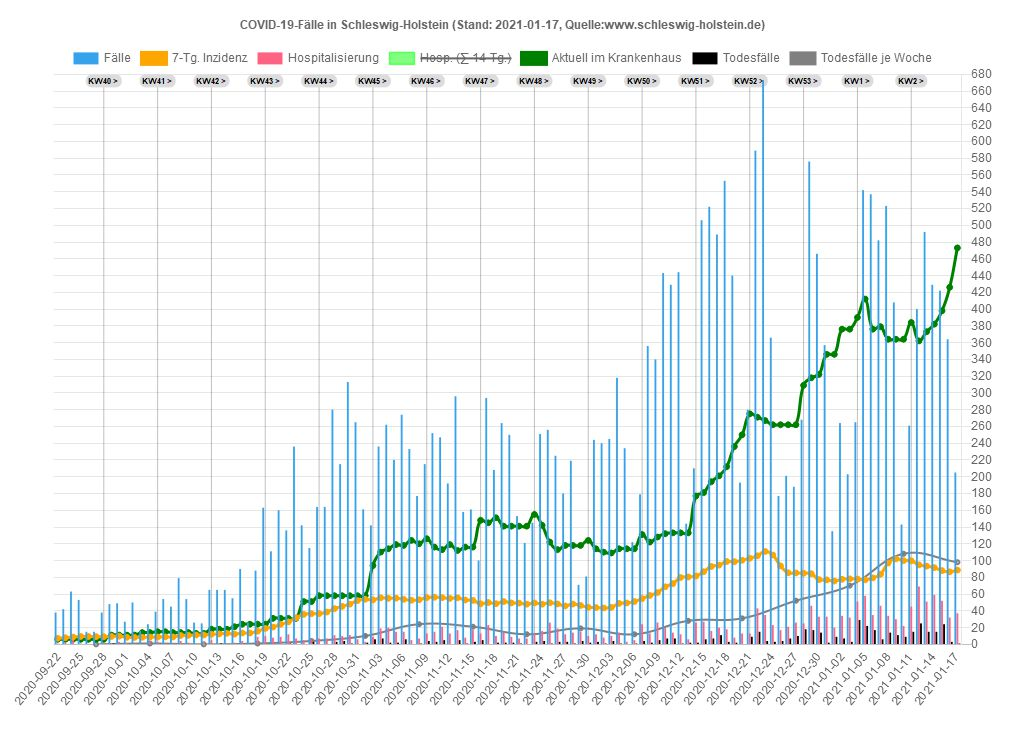
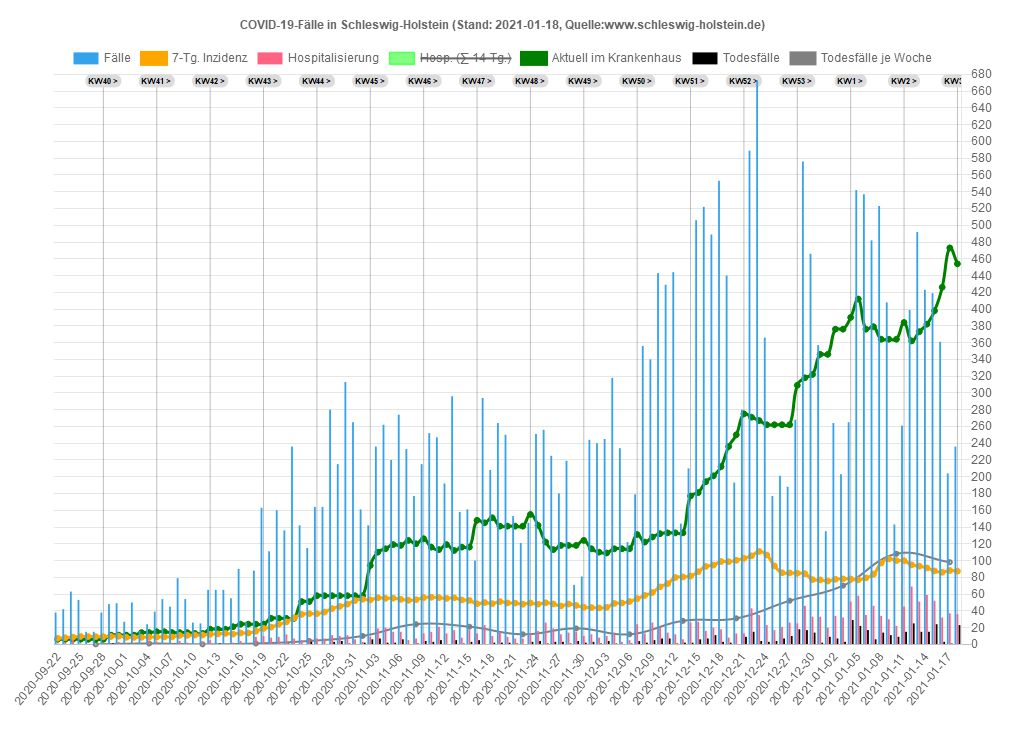
18.01.2021 20:35:10,86

Changed region(s): [[0.0625, 0.0931, 0.9375, 0.9622], [0.1875, 0.0931, 0.2188, 0.1242], [0.125, 0.0931, 0.1562, 0.1242]]

diff --git a/sh/Data_SH.js b/sh/Data_SH.js
@@ -1,20 +1,20 @@
 var chdata={
-labels: ["2020-09-22","2020-09-23","2020-09-24","2020-09-25","2020-09-26","2020-09-27","2020-09-28","2020-09-29","2020-09-30","2020-10-01","2020-10-02","2020-10-03","2020-10-04","2020-10-05","2020-10-06","2020-10-07","2020-10-08","2020-10-09","2020-10-10","2020-10-11","2020-10-12","2020-10-13","2020-10-14","2020-10-15","2020-10-16","2020-10-17","2020-10-18","2020-10-19","2020-10-20","2020-10-21","2020-10-22","2020-10-23","2020-10-24","2020-10-25","2020-10-26","2020-10-27","2020-10-28","2020-10-29","2020-10-30","2020-10-31","2020-11-01","2020-11-02","2020-11-03","2020-11-04","2020-11-05","2020-11-06","2020-11-07","2020-11-08","2020-11-09","2020-11-10","2020-11-11","2020-11-12","2020-11-13","2020-11-14","2020-11-15","2020-11-16","2020-11-17","2020-11-18","2020-11-19","2020-11-20","2020-11-21","2020-11-22","2020-11-23","2020-11-24","2020-11-25","2020-11-26","2020-11-27","2020-11-28","2020-11-29","2020-11-30","2020-12-01","2020-12-02","2020-12-03","2020-12-04","2020-12-05","2020-12-06","2020-12-07","2020-12-08","2020-12-09","2020-12-10","2020-12-11","2020-12-12","2020-12-13","2020-12-14","2020-12-15","2020-12-16","2020-12-17","2020-12-18","2020-12-19","2020-12-20","2020-12-21","2020-12-22","2020-12-23","2020-12-24","2020-12-25","2020-12-26","2020-12-27","2020-12-28","2020-12-29","2020-12-30","2020-12-31","2021-01-01","2021-01-02","2021-01-03","2021-01-04","2021-01-05","2021-01-06","2021-01-07","2021-01-08","2021-01-09","2021-01-10","2021-01-11","2021-01-12","2021-01-13","2021-01-14","2021-01-15","2021-01-16","2021-01-17"],
+labels: ["2020-09-22","2020-09-23","2020-09-24","2020-09-25","2020-09-26","2020-09-27","2020-09-28","2020-09-29","2020-09-30","2020-10-01","2020-10-02","2020-10-03","2020-10-04","2020-10-05","2020-10-06","2020-10-07","2020-10-08","2020-10-09","2020-10-10","2020-10-11","2020-10-12","2020-10-13","2020-10-14","2020-10-15","2020-10-16","2020-10-17","2020-10-18","2020-10-19","2020-10-20","2020-10-21","2020-10-22","2020-10-23","2020-10-24","2020-10-25","2020-10-26","2020-10-27","2020-10-28","2020-10-29","2020-10-30","2020-10-31","2020-11-01","2020-11-02","2020-11-03","2020-11-04","2020-11-05","2020-11-06","2020-11-07","2020-11-08","2020-11-09","2020-11-10","2020-11-11","2020-11-12","2020-11-13","2020-11-14","2020-11-15","2020-11-16","2020-11-17","2020-11-18","2020-11-19","2020-11-20","2020-11-21","2020-11-22","2020-11-23","2020-11-24","2020-11-25","2020-11-26","2020-11-27","2020-11-28","2020-11-29","2020-11-30","2020-12-01","2020-12-02","2020-12-03","2020-12-04","2020-12-05","2020-12-06","2020-12-07","2020-12-08","2020-12-09","2020-12-10","2020-12-11","2020-12-12","2020-12-13","2020-12-14","2020-12-15","2020-12-16","2020-12-17","2020-12-18","2020-12-19","2020-12-20","2020-12-21","2020-12-22","2020-12-23","2020-12-24","2020-12-25","2020-12-26","2020-12-27","2020-12-28","2020-12-29","2020-12-30","2020-12-31","2021-01-01","2021-01-02","2021-01-03","2021-01-04","2021-01-05","2021-01-06","2021-01-07","2021-01-08","2021-01-09","2021-01-10","2021-01-11","2021-01-12","2021-01-13","2021-01-14","2021-01-15","2021-01-16","2021-01-17","2021-01-18"],
 datasets: [
 {label: 'Fälle',
 type: 'bar',
 backgroundColor: window.chartColors.blue,
-data: [38,42,63,53,15,15,38,48,49,27,50,16,24,39,54,45,79,54,26,25,65,65,65,55,90,26,88,163,111,160,136,236,142,115,164,164,280,215,313,265,161,142,236,262,220,274,233,177,215,252,247,192,296,158,161,100,294,208,264,250,153,121,145,251,256,225,180,219,71,81,244,240,245,318,234,122,179,356,340,443,429,444,144,210,506,522,489,553,440,193,280,589,673,366,177,201,188,268,576,466,357,135,264,203,265,542,537,482,523,408,143,261,400,492,429,422,364,205]},
+data: [38,42,63,53,15,15,38,48,49,27,50,16,24,39,54,45,79,54,26,25,65,65,65,55,90,26,88,163,111,160,136,236,142,115,164,164,280,215,313,265,161,142,236,262,220,274,233,177,215,252,247,192,296,158,161,100,294,208,264,250,153,121,145,251,256,225,180,219,71,81,244,240,245,318,234,122,179,356,340,443,429,444,144,210,506,522,489,553,440,193,280,589,673,366,177,201,188,268,576,466,357,135,264,203,265,542,537,482,523,408,143,261,399,492,423,419,361,204,236]},
 {label: '7-Tg. Inzidenz',
 type: 'line',
 fill: false,
 pointBackgroundColor: 'orange',
 borderColor: 'orange',
-data: [7.2,7.9,8.7,9.4,9.3,9.2,9.1,9.4,9.7,8.4,8.3,8.4,8.7,8.7,8.9,8.8,10.6,10.7,11.1,11.1,12.0,12.4,13.1,12.2,13.5,13.5,15.6,19.0,20.6,23.9,26.7,31.7,35.7,36.6,36.6,38.5,42.6,45.3,48.0,52.2,53.8,53.0,55.5,54.9,55.1,53.7,52.6,53.2,55.7,56.2,55.7,54.8,55.5,52.9,52.4,48.4,49.9,48.5,51.0,49.4,49.2,47.9,49.4,47.9,49.6,48.2,45.8,48.1,46.4,44.2,43.9,43.4,44.1,48.8,49.3,51.1,54.5,58.3,61.8,68.6,72.4,79.7,80.4,81.5,86.6,92.9,94.5,98.8,98.6,100.3,102.7,105.6,110.8,106.6,93.6,85.4,85.2,84.8,84.3,77.2,76.9,75.5,77.6,78.1,78.0,76.9,79.3,83.6,97.0,101.9,99.9,99.7,94.8,93.3,91.5,88.0,86.5,88.6]},
+data: [7.2,7.9,8.7,9.4,9.3,9.2,9.1,9.4,9.7,8.4,8.3,8.4,8.7,8.7,8.9,8.8,10.6,10.7,11.1,11.1,12.0,12.4,13.1,12.2,13.5,13.5,15.6,19.0,20.6,23.9,26.7,31.7,35.7,36.6,36.6,38.5,42.6,45.3,48.0,52.2,53.8,53.0,55.5,54.9,55.1,53.7,52.6,53.2,55.7,56.2,55.7,54.8,55.5,52.9,52.4,48.4,49.9,48.5,51.0,49.4,49.2,47.9,49.4,47.9,49.6,48.2,45.8,48.1,46.4,44.2,43.9,43.4,44.1,48.8,49.3,51.1,54.5,58.3,61.8,68.6,72.4,79.7,80.4,81.5,86.6,92.9,94.5,98.8,98.6,100.3,102.7,105.6,110.8,106.6,93.6,85.4,85.2,84.8,84.3,77.2,76.9,75.5,77.6,78.1,78.0,76.9,79.3,83.6,97.0,101.9,99.9,99.7,94.8,93.3,91.2,87.6,86.0,88.1,87.3]},
 {label: 'Hospitalisierung',
 type: 'bar',
 backgroundColor: window.chartColors.red,
-data: [1,2,7,1,0,0,2,1,3,1,1,0,4,3,1,1,4,2,0,3,5,1,1,2,4,0,9,10,8,9,12,7,5,6,7,7,11,10,11,6,3,9,19,20,15,15,5,7,13,15,21,13,17,8,17,13,23,10,15,9,7,7,13,16,26,19,12,14,15,10,12,8,10,14,3,5,24,13,26,20,14,12,6,26,27,16,20,18,8,13,13,43,35,23,17,21,26,25,46,33,33,20,34,32,51,58,35,46,34,30,22,45,69,51,59,52,32,37]},
+data: [1,2,7,1,0,0,2,1,3,1,1,0,4,3,1,1,4,2,0,3,5,1,1,2,4,0,9,10,8,9,12,7,5,6,7,7,11,10,11,6,3,9,19,20,15,15,5,7,13,15,21,13,17,8,17,13,23,10,15,9,7,7,13,16,26,19,12,14,15,10,12,8,10,14,3,5,24,13,26,20,14,12,6,26,27,16,20,18,8,13,13,43,35,23,17,21,26,25,46,33,33,20,34,32,51,58,35,46,34,30,22,45,69,51,59,52,32,37,36]},
 {label: 'Hosp. (∑ 14-Tg.)',
 type: 'line',
 fill: false,
@@ -22,17 +22,17 @@ hidden: true,
 borderColor: 'rgba(0,255,0,0.5)',
 borderWidth: 1.5,
 pointRadius: 0,
-data: [12,12,20,22,22,22,22,23,23,21,22,21,24,26,26,25,22,23,23,26,29,29,27,28,31,31,36,43,50,58,66,71,76,79,81,87,97,105,112,118,112,111,122,133,136,144,144,145,151,159,169,172,178,180,194,198,202,192,192,186,188,188,188,189,194,200,195,201,199,196,185,183,178,183,179,177,188,185,185,186,188,186,177,193,208,216,226,230,235,243,232,262,271,274,277,286,306,305,324,341,354,356,382,401,439,454,454,477,494,503,499,519,542,560,586,618,616,621]},
+data: [12,12,20,22,22,22,22,23,23,21,22,21,24,26,26,25,22,23,23,26,29,29,27,28,31,31,36,43,50,58,66,71,76,79,81,87,97,105,112,118,112,111,122,133,136,144,144,145,151,159,169,172,178,180,194,198,202,192,192,186,188,188,188,189,194,200,195,201,199,196,185,183,178,183,179,177,188,185,185,186,188,186,177,193,208,216,226,230,235,243,232,262,271,274,277,286,306,305,324,341,354,356,382,401,439,454,454,477,494,503,499,519,542,560,586,618,616,621,606]},
 {label: 'Aktuell im Krankenhaus',
 type: 'line',
 fill: false,
 pointBackgroundColor: 'green',
 borderColor: 'green',
-data: [6,6,6,6,6,6,6,11,11,11,11,14,14,15,15,14,14,14,13,13,18,18,18,21,24,24,24,24,31,31,31,31,51,51,58,58,58,58,58,58,58,94,110,114,119,118,124,120,126,116,113,119,112,116,116,148,145,151,141,141,141,141,155,142,122,113,118,118,118,124,114,110,109,114,114,114,131,122,128,132,133,133,133,177,181,194,201,212,236,250,275,271,267,262,262,262,262,309,318,322,346,346,376,376,390,412,376,379,364,364,364,384,362,373,382,398,426,473]},
+data: [6,6,6,6,6,6,6,11,11,11,11,14,14,15,15,14,14,14,13,13,18,18,18,21,24,24,24,24,31,31,31,31,51,51,58,58,58,58,58,58,58,94,110,114,119,118,124,120,126,116,113,119,112,116,116,148,145,151,141,141,141,141,155,142,122,113,118,118,118,124,114,110,109,114,114,114,131,122,128,132,133,133,133,177,181,194,201,212,236,250,275,271,267,262,262,262,262,309,318,322,346,346,376,376,390,412,376,379,364,364,364,384,362,373,382,398,426,473,454]},
 {label: 'Todesfälle',
 type: 'bar',
 backgroundColor: 'black',
-data: [0,0,0,0,0,0,0,1,0,0,0,0,0,0,0,0,0,0,0,0,0,1,0,0,0,0,0,0,0,0,1,0,0,3,0,0,3,4,1,0,2,6,7,2,2,6,0,1,4,3,5,0,5,1,3,5,0,2,2,2,1,0,3,4,1,3,3,1,4,2,3,1,4,1,0,1,4,2,5,7,7,1,2,2,6,7,11,3,2,0,9,15,4,3,4,7,10,18,17,14,2,9,7,3,29,22,17,6,14,11,9,15,25,15,15,24,3,1]},
+data: [0,0,0,0,0,0,0,1,0,0,0,0,0,0,0,0,0,0,0,0,0,1,0,0,0,0,0,0,0,0,1,0,0,3,0,0,3,4,1,0,2,6,7,2,2,6,0,1,4,3,5,0,5,1,3,5,0,2,2,2,1,0,3,4,1,3,3,1,4,2,3,1,4,1,0,1,4,2,5,7,7,1,2,2,6,7,11,3,2,0,9,15,4,3,4,7,10,18,17,14,2,9,7,3,29,22,17,6,14,11,9,15,25,15,15,24,3,1,23]},
 {label: 'Todesfälle je Woche',
 type: 'line',
 fill: false,
@@ -41,6 +41,6 @@ borderColor: 'rgba(128,128,128,1)',
 borderWidth: 2,
 pointRadius: 2,
 yAxisID: 'first-y-axis',
-data: [,,,,,0,,,,,,,1,,,,,,,0,,,,,,,1,,,,,,,4,,,,,,,10,,,,,,,24,,,,,,,21,,,,,,,12,,,,,,,19,,,,,,,12,,,,,,,28,,,,,,,31,,,,,,,52,,,,,,,70,,,,,,,108,,,,,,,98]},
+data: [,,,,,0,,,,,,,1,,,,,,,0,,,,,,,1,,,,,,,4,,,,,,,10,,,,,,,24,,,,,,,21,,,,,,,12,,,,,,,19,,,,,,,12,,,,,,,28,,,,,,,31,,,,,,,52,,,,,,,70,,,,,,,108,,,,,,,98,]},
 ]};
 

diff --git a/sh/Data_SH_Alter.js b/sh/Data_SH_Alter.js
@@ -128,7 +128,8 @@ var chdata={
 				{x: '2021-01-14', y: 'Alle', v: 88.5744168, casesum: 2572},{x: '2021-01-14', y: '00-09', v: 32.3306923, casesum: 83},{x: '2021-01-14', y: '10-19', v: 74.9980979, casesum: 207},{x: '2021-01-14', y: '20-29', v: 131.265588, casesum: 420},{x: '2021-01-14', y: '30-39', v: 115.743151, casesum: 389},{x: '2021-01-14', y: '40-49', v: 78.8712894, casesum: 278},{x: '2021-01-14', y: '50-59', v: 74.8888274, casesum: 371},{x: '2021-01-14', y: '60-69', v: 58.5921382, casesum: 213},{x: '2021-01-14', y: '70-79', v: 66.569572, casesum: 197},{x: '2021-01-14', y: '80-89', v: 164.950068, casesum: 295},{x: '2021-01-14', y: '90+', v: 412.965019, casesum: 119},
 				{x: '2021-01-15', y: 'Alle', v: 85.9915703, casesum: 2497},{x: '2021-01-15', y: '00-09', v: 33.888798, casesum: 87},{x: '2021-01-15', y: '10-19', v: 71.737311, casesum: 198},{x: '2021-01-15', y: '20-29', v: 128.140217, casesum: 410},{x: '2021-01-15', y: '30-39', v: 109.494806, casesum: 368},{x: '2021-01-15', y: '40-49', v: 78.3038701, casesum: 276},{x: '2021-01-15', y: '50-59', v: 74.6869708, casesum: 370},{x: '2021-01-15', y: '60-69', v: 58.0419773, casesum: 211},{x: '2021-01-15', y: '70-79', v: 65.5558221, casesum: 194},{x: '2021-01-15', y: '80-89', v: 157.121929, casesum: 281},{x: '2021-01-15', y: '90+', v: 353.970017, casesum: 102},
 				{x: '2021-01-16', y: 'Alle', v: 84.2696726, casesum: 2447},{x: '2021-01-16', y: '00-09', v: 35.4469037, casesum: 91},{x: '2021-01-16', y: '10-19', v: 70.2880724, casesum: 194},{x: '2021-01-16', y: '20-29', v: 125.63992, casesum: 402},{x: '2021-01-16', y: '30-39', v: 103.246462, casesum: 347},{x: '2021-01-16', y: '40-49', v: 79.7224185, casesum: 281},{x: '2021-01-16', y: '50-59', v: 73.4758307, casesum: 364},{x: '2021-01-16', y: '60-69', v: 57.7668968, casesum: 210},{x: '2021-01-16', y: '70-79', v: 65.5558221, casesum: 194},{x: '2021-01-16', y: '80-89', v: 147.616332, casesum: 264},{x: '2021-01-16', y: '90+', v: 347.029428, casesum: 100},
-				{x: '2021-01-17', y: 'Alle', v: 87.0591468, casesum: 2528},{x: '2021-01-17', y: '00-09', v: 36.2259565, casesum: 93},{x: '2021-01-17', y: '10-19', v: 74.6357882, casesum: 206},{x: '2021-01-17', y: '20-29', v: 124.389771, casesum: 398},{x: '2021-01-17', y: '30-39', v: 104.734163, casesum: 352},{x: '2021-01-17', y: '40-49', v: 83.1269345, casesum: 293},{x: '2021-01-17', y: '50-59', v: 73.879544, casesum: 366},{x: '2021-01-17', y: '60-69', v: 58.5921382, casesum: 213},{x: '2021-01-17', y: '70-79', v: 70.2866547, casesum: 208},{x: '2021-01-17', y: '80-89', v: 161.035998, casesum: 288},{x: '2021-01-17', y: '90+', v: 385.202665, casesum: 111}
+				{x: '2021-01-17', y: 'Alle', v: 87.0591468, casesum: 2528},{x: '2021-01-17', y: '00-09', v: 36.2259565, casesum: 93},{x: '2021-01-17', y: '10-19', v: 74.6357882, casesum: 206},{x: '2021-01-17', y: '20-29', v: 124.389771, casesum: 398},{x: '2021-01-17', y: '30-39', v: 104.734163, casesum: 352},{x: '2021-01-17', y: '40-49', v: 83.1269345, casesum: 293},{x: '2021-01-17', y: '50-59', v: 73.879544, casesum: 366},{x: '2021-01-17', y: '60-69', v: 58.5921382, casesum: 213},{x: '2021-01-17', y: '70-79', v: 70.2866547, casesum: 208},{x: '2021-01-17', y: '80-89', v: 161.035998, casesum: 288},{x: '2021-01-17', y: '90+', v: 385.202665, casesum: 111},
+				{x: '2021-01-18', y: 'Alle', v: 87.1624607, casesum: 2531},{x: '2021-01-18', y: '00-09', v: 37.3945357, casesum: 96},{x: '2021-01-18', y: '10-19', v: 76.8096461, casesum: 212},{x: '2021-01-18', y: '20-29', v: 127.515142, casesum: 408},{x: '2021-01-18', y: '30-39', v: 108.602186, casesum: 365},{x: '2021-01-18', y: '40-49', v: 87.6662893, casesum: 309},{x: '2021-01-18', y: '50-59', v: 74.0814007, casesum: 367},{x: '2021-01-18', y: '60-69', v: 56.9416554, casesum: 207},{x: '2021-01-18', y: '70-79', v: 65.2179055, casesum: 193},{x: '2021-01-18', y: '80-89', v: 151.530401, casesum: 271},{x: '2021-01-18', y: '90+', v: 357.440311, casesum: 103}
 			],
 			backgroundColor: function(context) {
 				return inzColor(context.dataset.data[context.dataIndex].v)
@@ -136,7 +137,7 @@ var chdata={
 			width: function(context) {
 				const a = context.chart.chartArea
 				if (!a) return 0
-				return (a.right - a.left) / 125.5
+				return (a.right - a.left) / 126.5
 			},
 			height: function(context) {
 				const a = context.chart.chartArea
@@ -148,7 +149,7 @@ var chdata={
 	options: {
 		legend: { display: false },
 		scales: {
-			xAxes: [{type: 'category', labels: ["2020-09-15","2020-09-16","2020-09-17","2020-09-18","2020-09-19","2020-09-20","2020-09-21","2020-09-22","2020-09-23","2020-09-24","2020-09-25","2020-09-26","2020-09-27","2020-09-28","2020-09-29","2020-09-30","2020-10-01","2020-10-02","2020-10-03","2020-10-04","2020-10-05","2020-10-06","2020-10-07","2020-10-08","2020-10-09","2020-10-10","2020-10-11","2020-10-12","2020-10-13","2020-10-14","2020-10-15","2020-10-16","2020-10-17","2020-10-18","2020-10-19","2020-10-20","2020-10-21","2020-10-22","2020-10-23","2020-10-24","2020-10-25","2020-10-26","2020-10-27","2020-10-28","2020-10-29","2020-10-30","2020-10-31","2020-11-01","2020-11-02","2020-11-03","2020-11-04","2020-11-05","2020-11-06","2020-11-07","2020-11-08","2020-11-09","2020-11-10","2020-11-11","2020-11-12","2020-11-13","2020-11-14","2020-11-15","2020-11-16","2020-11-17","2020-11-18","2020-11-19","2020-11-20","2020-11-21","2020-11-22","2020-11-23","2020-11-24","2020-11-25","2020-11-26","2020-11-27","2020-11-28","2020-11-29","2020-11-30","2020-12-01","2020-12-02","2020-12-03","2020-12-04","2020-12-05","2020-12-06","2020-12-07","2020-12-08","2020-12-09","2020-12-10","2020-12-11","2020-12-12","2020-12-13","2020-12-14","2020-12-15","2020-12-16","2020-12-17","2020-12-18","2020-12-19","2020-12-20","2020-12-21","2020-12-22","2020-12-23","2020-12-24","2020-12-25","2020-12-26","2020-12-27","2020-12-28","2020-12-29","2020-12-30","2020-12-31","2021-01-01","2021-01-02","2021-01-03","2021-01-04","2021-01-05","2021-01-06","2021-01-07","2021-01-08","2021-01-09","2021-01-10","2021-01-11","2021-01-12","2021-01-13","2021-01-14","2021-01-15","2021-01-16","2021-01-17",], ticks: {display: true},gridlines:{display:false}}],
+			xAxes: [{type: 'category', labels: ["2020-09-15","2020-09-16","2020-09-17","2020-09-18","2020-09-19","2020-09-20","2020-09-21","2020-09-22","2020-09-23","2020-09-24","2020-09-25","2020-09-26","2020-09-27","2020-09-28","2020-09-29","2020-09-30","2020-10-01","2020-10-02","2020-10-03","2020-10-04","2020-10-05","2020-10-06","2020-10-07","2020-10-08","2020-10-09","2020-10-10","2020-10-11","2020-10-12","2020-10-13","2020-10-14","2020-10-15","2020-10-16","2020-10-17","2020-10-18","2020-10-19","2020-10-20","2020-10-21","2020-10-22","2020-10-23","2020-10-24","2020-10-25","2020-10-26","2020-10-27","2020-10-28","2020-10-29","2020-10-30","2020-10-31","2020-11-01","2020-11-02","2020-11-03","2020-11-04","2020-11-05","2020-11-06","2020-11-07","2020-11-08","2020-11-09","2020-11-10","2020-11-11","2020-11-12","2020-11-13","2020-11-14","2020-11-15","2020-11-16","2020-11-17","2020-11-18","2020-11-19","2020-11-20","2020-11-21","2020-11-22","2020-11-23","2020-11-24","2020-11-25","2020-11-26","2020-11-27","2020-11-28","2020-11-29","2020-11-30","2020-12-01","2020-12-02","2020-12-03","2020-12-04","2020-12-05","2020-12-06","2020-12-07","2020-12-08","2020-12-09","2020-12-10","2020-12-11","2020-12-12","2020-12-13","2020-12-14","2020-12-15","2020-12-16","2020-12-17","2020-12-18","2020-12-19","2020-12-20","2020-12-21","2020-12-22","2020-12-23","2020-12-24","2020-12-25","2020-12-26","2020-12-27","2020-12-28","2020-12-29","2020-12-30","2020-12-31","2021-01-01","2021-01-02","2021-01-03","2021-01-04","2021-01-05","2021-01-06","2021-01-07","2021-01-08","2021-01-09","2021-01-10","2021-01-11","2021-01-12","2021-01-13","2021-01-14","2021-01-15","2021-01-16","2021-01-17","2021-01-18",], ticks: {display: true},gridlines:{display:false}}],
 			yAxes: [{type: 'category', labels: ["Alle","00-09","10-19","20-29","30-39","40-49","50-59","60-69","70-79","80-89","90+"], offset:true, ticks: {display: true},gridlines:{display:false}}],
 		},
 	}

diff --git a/sh/Kreis_PI.js b/sh/Kreis_PI.js
@@ -1,23 +1,23 @@
 var chdata={
-labels: ["2020-09-22","2020-09-23","2020-09-24","2020-09-25","2020-09-26","2020-09-27","2020-09-28","2020-09-29","2020-09-30","2020-10-01","2020-10-02","2020-10-03","2020-10-04","2020-10-05","2020-10-06","2020-10-07","2020-10-08","2020-10-09","2020-10-10","2020-10-11","2020-10-12","2020-10-13","2020-10-14","2020-10-15","2020-10-16","2020-10-17","2020-10-18","2020-10-19","2020-10-20","2020-10-21","2020-10-22","2020-10-23","2020-10-24","2020-10-25","2020-10-26","2020-10-27","2020-10-28","2020-10-29","2020-10-30","2020-10-31","2020-11-01","2020-11-02","2020-11-03","2020-11-04","2020-11-05","2020-11-06","2020-11-07","2020-11-08","2020-11-09","2020-11-10","2020-11-11","2020-11-12","2020-11-13","2020-11-14","2020-11-15","2020-11-16","2020-11-17","2020-11-18","2020-11-19","2020-11-20","2020-11-21","2020-11-22","2020-11-23","2020-11-24","2020-11-25","2020-11-26","2020-11-27","2020-11-28","2020-11-29","2020-11-30","2020-12-01","2020-12-02","2020-12-03","2020-12-04","2020-12-05","2020-12-06","2020-12-07","2020-12-08","2020-12-09","2020-12-10","2020-12-11","2020-12-12","2020-12-13","2020-12-14","2020-12-15","2020-12-16","2020-12-17","2020-12-18","2020-12-19","2020-12-20","2020-12-21","2020-12-22","2020-12-23","2020-12-24","2020-12-25","2020-12-26","2020-12-27","2020-12-28","2020-12-29","2020-12-30","2020-12-31","2021-01-01","2021-01-02","2021-01-03","2021-01-04","2021-01-05","2021-01-06","2021-01-07","2021-01-08","2021-01-09","2021-01-10","2021-01-11","2021-01-12","2021-01-13","2021-01-14","2021-01-15","2021-01-16","2021-01-17"],
+labels: ["2020-09-22","2020-09-23","2020-09-24","2020-09-25","2020-09-26","2020-09-27","2020-09-28","2020-09-29","2020-09-30","2020-10-01","2020-10-02","2020-10-03","2020-10-04","2020-10-05","2020-10-06","2020-10-07","2020-10-08","2020-10-09","2020-10-10","2020-10-11","2020-10-12","2020-10-13","2020-10-14","2020-10-15","2020-10-16","2020-10-17","2020-10-18","2020-10-19","2020-10-20","2020-10-21","2020-10-22","2020-10-23","2020-10-24","2020-10-25","2020-10-26","2020-10-27","2020-10-28","2020-10-29","2020-10-30","2020-10-31","2020-11-01","2020-11-02","2020-11-03","2020-11-04","2020-11-05","2020-11-06","2020-11-07","2020-11-08","2020-11-09","2020-11-10","2020-11-11","2020-11-12","2020-11-13","2020-11-14","2020-11-15","2020-11-16","2020-11-17","2020-11-18","2020-11-19","2020-11-20","2020-11-21","2020-11-22","2020-11-23","2020-11-24","2020-11-25","2020-11-26","2020-11-27","2020-11-28","2020-11-29","2020-11-30","2020-12-01","2020-12-02","2020-12-03","2020-12-04","2020-12-05","2020-12-06","2020-12-07","2020-12-08","2020-12-09","2020-12-10","2020-12-11","2020-12-12","2020-12-13","2020-12-14","2020-12-15","2020-12-16","2020-12-17","2020-12-18","2020-12-19","2020-12-20","2020-12-21","2020-12-22","2020-12-23","2020-12-24","2020-12-25","2020-12-26","2020-12-27","2020-12-28","2020-12-29","2020-12-30","2020-12-31","2021-01-01","2021-01-02","2021-01-03","2021-01-04","2021-01-05","2021-01-06","2021-01-07","2021-01-08","2021-01-09","2021-01-10","2021-01-11","2021-01-12","2021-01-13","2021-01-14","2021-01-15","2021-01-16","2021-01-17","2021-01-18"],
 datasets: [
 {label: 'Fälle',
 type: 'bar',
 backgroundColor: window.chartColors.blue,
 yAxisID: 'first-y-axis',
-data: [7,7,2,17,0,9,3,8,10,6,6,7,4,2,7,6,7,4,8,3,11,12,17,9,3,0,36,10,12,34,0,73,34,8,10,0,27,36,60,67,0,32,26,49,42,43,45,24,7,36,47,34,28,43,18,0,51,51,49,47,42,31,55,50,68,43,0,73,18,32,47,59,40,42,0,12,34,75,37,98,53,92,19,17,79,62,92,53,113,32,41,100,121,58,56,49,20,47,118,116,82,15,36,25,28,104,77,62,132,69,38,32,93,133,75,69,70,41]},
+data: [7,7,2,17,0,9,3,8,10,6,6,7,4,2,7,6,7,4,8,3,11,12,17,9,3,0,36,10,12,34,0,73,34,8,10,0,27,36,60,67,0,32,26,49,42,43,45,24,7,36,47,34,28,43,18,0,51,51,49,47,42,31,55,50,68,43,0,73,18,32,47,59,40,42,0,12,34,75,37,98,53,92,19,17,79,62,92,53,113,32,41,100,121,58,56,49,20,47,118,116,82,15,36,25,28,104,77,62,132,69,38,32,93,133,70,69,69,39,48]},
 {label: '7-Tg. Inzidenz',
 type: 'line',
 fill: false,
 pointBackgroundColor: 'orange',
 borderColor: 'orange',
 yAxisID: 'first-y-axis',
-data: [10.4,12.0,11.4,14.5,12.0104175,14.2,14.2,14.5,15.5,16.8,13.3,15.5,13.9,13.6,13.3,12.0,12.3,11.7,12.0,11.7,14.5,16.1,19.6,20.2,19.9,17.383499,27.8,27.5,27.5,32.9,30.0260436,52.2,62.9,54.0,54.0,50.2541151,48.0,59.4,55.3,65.7,63.2127235,70.2,78.4,85.3,87.2,81.9,74.9,82.5,74.6,77.8,77.1,74.6,69.9,69.2,67.3,65.1091052,69.9,71.1,75.9,81.9,81.5,85.7,103.0,102.7,108.1,106.2,91.3423854,101.1,97.0,89.8,88.8,86.0,85.0,98.3,75.2231409,73.3,74.0,82.8,75.9,94.2,97.7,126.7,129.0,123.6,124.8,132.7,130.9,130.9,137.5,141.6,149.2,155.8,174.5,163.7,164.7,144.4,140.6,142.5,148.2,146.7,154.2,141.3,137.2,138.8,132.7,128.3,116.0,109.7,146.7,157.1,161.2,162.5,159.0,176.7,180.8,160.9,161.2,162.3]},
+data: [10.4,12.0,11.4,14.5,12.0104175,14.2,14.2,14.5,15.5,16.8,13.3,15.5,13.9,13.6,13.3,12.0,12.3,11.7,12.0,11.7,14.5,16.1,19.6,20.2,19.9,17.383499,27.8,27.5,27.5,32.9,30.0260436,52.2,62.9,54.0,54.0,50.2541151,48.0,59.4,55.3,65.7,63.2127235,70.2,78.4,85.3,87.2,81.9,74.9,82.5,74.6,77.8,77.1,74.6,69.9,69.2,67.3,65.1091052,69.9,71.1,75.9,81.9,81.5,85.7,103.0,102.7,108.1,106.2,91.3423854,101.1,97.0,89.8,88.8,86.0,85.0,98.3,75.2231409,73.3,74.0,82.8,75.9,94.2,97.7,126.7,129.0,123.6,124.8,132.7,130.9,130.9,137.5,141.6,149.2,155.8,174.5,163.7,164.7,144.4,140.6,142.5,148.2,146.7,154.2,141.3,137.2,138.8,132.7,128.3,116.0,109.7,146.7,157.1,161.2,162.5,159.0,176.7,179.2,159.3,159.3,159.6,164.8]},
 {label: 'Hospitalisierung',
 type: 'bar',
 backgroundColor: window.chartColors.red,
 yAxisID: 'first-y-axis',
-data: [0,0,0,0,0,0,1,1,0,0,0,0,1,1,1,-1,2,0,0,0,0,0,0,0,0,0,3,2,0,1,0,5,0,1,1,0,1,2,5,2,0,2,1,2,5,3,0,0,3,4,2,3,3,1,1,0,6,1,2,2,2,0,1,2,6,4,0,6,4,4,3,3,2,5,0,2,4,1,6,7,4,1,0,9,5,0,7,0,0,0,0,25,8,6,2,3,3,5,15,9,4,6,10,3,4,8,13,13,6,3,4,0,26,12,8,7,6,2]},
+data: [0,0,0,0,0,0,1,1,0,0,0,0,1,1,1,-1,2,0,0,0,0,0,0,0,0,0,3,2,0,1,0,5,0,1,1,0,1,2,5,2,0,2,1,2,5,3,0,0,3,4,2,3,3,1,1,0,6,1,2,2,2,0,1,2,6,4,0,6,4,4,3,3,2,5,0,2,4,1,6,7,4,1,0,9,5,0,7,0,0,0,0,25,8,6,2,3,3,5,15,9,4,6,10,3,4,8,13,13,6,3,4,0,26,12,8,7,6,2,2]},
 {label: 'Hospitalisierung (∑ 14-Tg.)',
 type: 'line',
 pointRadius: 0,
@@ -25,12 +25,12 @@ fill: false,
 borderColor: 'rgba(0,128,0,0.5)',
 borderWidth: 2,
 yAxisID: 'first-y-axis',
-data: [2,2,2,2,2,2,3,4,3,2,2,2,3,4,5,4,6,6,6,6,5,4,4,4,4,4,6,7,6,8,6,11,11,12,13,13,14,16,21,23,20,20,21,22,27,25,25,24,26,30,31,32,30,29,30,28,33,32,29,28,30,30,28,26,30,31,28,33,36,40,37,39,39,42,40,42,45,44,44,47,51,46,42,47,49,46,51,46,46,44,40,64,66,65,63,65,68,64,74,83,80,86,96,99,103,86,91,98,102,102,103,98,109,112,116,117,113,112]},
+data: [2,2,2,2,2,2,3,4,3,2,2,2,3,4,5,4,6,6,6,6,5,4,4,4,4,4,6,7,6,8,6,11,11,12,13,13,14,16,21,23,20,20,21,22,27,25,25,24,26,30,31,32,30,29,30,28,33,32,29,28,30,30,28,26,30,31,28,33,36,40,37,39,39,42,40,42,45,44,44,47,51,46,42,47,49,46,51,46,46,44,40,64,66,65,63,65,68,64,74,83,80,86,96,99,103,86,91,98,102,102,103,98,109,112,116,117,113,112,110]},
 {label: 'Todesfälle',
 type: 'bar',
 backgroundColor: 'black',
 yAxisID: 'first-y-axis',
-data: [0,0,0,0,0,0,0,0,0,0,0,0,0,0,0,0,0,0,0,0,0,0,0,0,0,0,0,0,0,0,0,0,0,0,0,0,1,0,0,0,0,0,0,0,0,0,0,0,0,1,0,0,0,0,0,0,0,0,0,0,0,0,0,0,0,1,0,1,0,2,0,0,2,1,0,0,0,1,0,2,1,0,0,0,1,0,7,0,0,0,0,4,0,0,2,0,2,3,4,3,0,6,0,2,10,4,5,1,2,5,1,0,7,2,5,6,1,0]},
+data: [0,0,0,0,0,0,0,0,0,0,0,0,0,0,0,0,0,0,0,0,0,0,0,0,0,0,0,0,0,0,0,0,0,0,0,0,1,0,0,0,0,0,0,0,0,0,0,0,0,1,0,0,0,0,0,0,0,0,0,0,0,0,0,0,0,1,0,1,0,2,0,0,2,1,0,0,0,1,0,2,1,0,0,0,1,0,7,0,0,0,0,4,0,0,2,0,2,3,4,3,0,6,0,2,10,4,5,1,2,5,1,0,7,2,5,6,1,0,5]},
 {label: 'Todesfälle je Woche',
 type: 'line',
 fill: false,
@@ -39,6 +39,6 @@ borderColor: 'rgba(128,128,128,1)',
 borderWidth: 2,
 pointRadius: 2,
 yAxisID: 'first-y-axis',
-data: [,,,,,0,,,,,,,0,,,,,,,0,,,,,,,0,,,,,,,0,,,,,,,1,,,,,,,0,,,,,,,1,,,,,,,0,,,,,,,2,,,,,,,5,,,,,,,4,,,,,,,8,,,,,,,8,,,,,,,18,,,,,,,28,,,,,,,21]},
+data: [,,,,,0,,,,,,,0,,,,,,,0,,,,,,,0,,,,,,,0,,,,,,,1,,,,,,,0,,,,,,,1,,,,,,,0,,,,,,,2,,,,,,,5,,,,,,,4,,,,,,,8,,,,,,,8,,,,,,,18,,,,,,,28,,,,,,,21,]},
 ]};
 

diff --git a/sh/index_sh_alter.html b/sh/index_sh_alter.html
@@ -5,7 +5,7 @@
 <meta property="og:image" content="index_sh_alter.jpg" />
 <meta property="og:type" content="website" />
 <meta property="og:locale" content="de_DE" />
-<meta property="og:updated_time" content="2021-01-18T17:02:05+01:00" />
+<meta property="og:updated_time" content="2021-01-18T20:35:10+01:00" />
 <title>Altersverteilung der COVID-19-Fälle in Schleswig-Holstein</title>
 <link rel="stylesheet" href="../css/style.css" media="screen" type="text/css">
 <link rel="stylesheet" media="screen" href="Chart.min.css"> 

diff --git a/sh/index_pi_alter.html b/sh/index_pi_alter.html
@@ -5,7 +5,7 @@
 <meta property="og:image" content="index_pi_alter.jpg" />
 <meta property="og:type" content="website" />
 <meta property="og:locale" content="de_DE" />
-<meta property="og:updated_time" content="2021-01-18T17:02:05+01:00" />
+<meta property="og:updated_time" content="2021-01-18T20:35:10+01:00" />
 <title>Altersverteilung der COVID-19-Fälle im Kreis Pinneberg</title>
 <link rel="stylesheet" href="../css/style.css" media="screen" type="text/css">
 <link rel="stylesheet" media="screen" href="Chart.min.css"> 

diff --git a/sh/index.html b/sh/index.html
@@ -5,7 +5,7 @@
 <meta property="og:image" content="index.jpg" />
 <meta property="og:type" content="website" />
 <meta property="og:locale" content="de_DE" />
-<meta property="og:updated_time" content="2021-01-18T17:02:05+01:00" />
+<meta property="og:updated_time" content="2021-01-18T20:35:10+01:00" />
 <title>COVID-19-Fälle im Kreis Pinneberg</title>
 <link rel="stylesheet" href="../css/style.css" media="screen" type="text/css">
 <link rel="stylesheet" media="screen" href="Chart.min.css"> 
